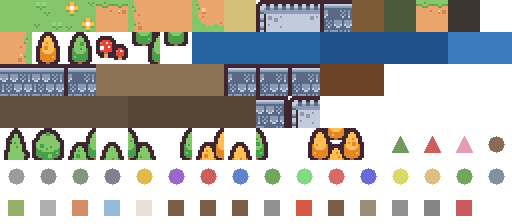
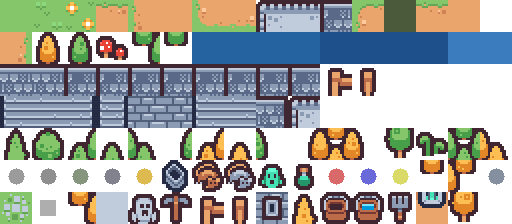
feat: expand Kenney tile coverage from 37 to 79 tiles and add asset tooling
Replace 42 colored placeholders with real Kenney CC0 tiles from Tiny Town
and Tiny Dungeon packs. Adds cliffs (dungeon stone walls), bushes, mushrooms,
herbs, fences, campfire, barrel, crate, lantern, well, signpost, bones.
Includes download-assets.sh for automated Kenney pack downloading and
nano-banana prompt guide for custom game-specific assets.

diff --git a/scripts/generate-terrain-sheet.js b/scripts/generate-terrain-sheet.js
@@ -210,14 +210,14 @@ const ROW0 = [
   { src: 'town', n: 24 },   // 4: dirt_1
   { src: 'town', n: 25 },   // 5: dirt_2
   { src: 'town', n: 36 },   // 6: sand_1
-  { src: 'placeholder', r: 212, g: 192, b: 120 }, // 7: sand_2 (placeholder)
+  { src: 'town', n: 37 },   // 7: sand_2 (Kenney sand variant)
   { src: 'town', n: 96 },   // 8: snow_1
   { src: 'town', n: 97 },   // 9: snow_2
   { src: 'town', n: 48 },   // 10: stone_floor (cobblestone)
-  { src: 'placeholder', r: 123, g: 91, b: 53 },  // 11: farmland (placeholder - brown furrows)
+  { src: 'town', n: 12 },   // 11: farmland (Kenney light ground)
   { src: 'placeholder', r: 74, g: 90, b: 58 },   // 12: swamp (placeholder)
   { src: 'town', n: 13 },   // 13: dark_grass (reuse dark grass)
-  { src: 'placeholder', r: 58, g: 53, b: 48 },   // 14: cave_floor (placeholder)
+  { src: 'dungeon', n: 48 }, // 14: cave_floor (Kenney dungeon floor)
   { src: 'transparent' },    // 15: reserved
 ];
 
@@ -244,15 +244,15 @@ const ROW2 = [
   { src: 'town', n: 49 },   // 32: road_dirt_H (stone path variant)
   { src: 'town', n: 49 },   // 33: road_dirt_V (rotated conceptually, same tile)
   { src: 'town', n: 48 },   // 34: road_dirt_cross
-  { src: 'placeholder', r: 139, g: 115, b: 85 }, // 35: road_dirt_turn_NE
-  { src: 'placeholder', r: 139, g: 115, b: 85 }, // 36: road_dirt_turn_NW
-  { src: 'placeholder', r: 139, g: 115, b: 85 }, // 37: road_dirt_turn_SE
-  { src: 'placeholder', r: 139, g: 115, b: 85 }, // 38: road_dirt_turn_SW
+  { src: 'town', n: 48 },   // 35: road_dirt_turn_NE (Kenney cobblestone)
+  { src: 'town', n: 48 },   // 36: road_dirt_turn_NW (Kenney cobblestone)
+  { src: 'town', n: 48 },   // 37: road_dirt_turn_SE (Kenney cobblestone)
+  { src: 'town', n: 48 },   // 38: road_dirt_turn_SW (Kenney cobblestone)
   { src: 'town', n: 48 },   // 39: road_stone_H
   { src: 'town', n: 48 },   // 40: road_stone_V
   { src: 'town', n: 48 },   // 41: road_stone_cross
-  { src: 'placeholder', r: 107, g: 66, b: 38 },  // 42: bridge_H
-  { src: 'placeholder', r: 107, g: 66, b: 38 },  // 43: bridge_V
+  { src: 'town', n: 44 },   // 42: bridge_H (Kenney wood fence horizontal)
+  { src: 'town', n: 47 },   // 43: bridge_V (Kenney wood fence vertical)
   { src: 'transparent' },    // 44
   { src: 'transparent' },    // 45
   { src: 'transparent' },    // 46
@@ -260,14 +260,14 @@ const ROW2 = [
 ];
 
 const ROW3 = [
-  { src: 'placeholder', r: 96, g: 80, b: 64 },   // 48: cliff_N
-  { src: 'placeholder', r: 96, g: 80, b: 64 },   // 49: cliff_S
-  { src: 'placeholder', r: 96, g: 80, b: 64 },   // 50: cliff_E
-  { src: 'placeholder', r: 96, g: 80, b: 64 },   // 51: cliff_W
-  { src: 'placeholder', r: 86, g: 70, b: 54 },   // 52: cliff_NE
-  { src: 'placeholder', r: 86, g: 70, b: 54 },   // 53: cliff_NW
-  { src: 'placeholder', r: 86, g: 70, b: 54 },   // 54: cliff_SE
-  { src: 'placeholder', r: 86, g: 70, b: 54 },   // 55: cliff_SW
+  { src: 'dungeon', n: 36 },  // 48: cliff_N (Kenney stone wall)
+  { src: 'dungeon', n: 37 },  // 49: cliff_S (Kenney stone wall variant)
+  { src: 'dungeon', n: 38 },  // 50: cliff_E (Kenney stone wall variant)
+  { src: 'dungeon', n: 39 },  // 51: cliff_W (Kenney stone wall variant)
+  { src: 'dungeon', n: 40 },  // 52: cliff_NE (Kenney dark stone wall)
+  { src: 'dungeon', n: 40 },  // 53: cliff_NW (Kenney dark stone wall)
+  { src: 'dungeon', n: 36 },  // 54: cliff_SE (Kenney stone wall)
+  { src: 'dungeon', n: 37 },  // 55: cliff_SW (Kenney stone wall variant)
   { src: 'town', n: 50 },   // 56: mountain_top (use stone variant)
   { src: 'town', n: 96 },   // 57: mountain_snow (use snow tile)
   { src: 'transparent' },    // 58-63
@@ -291,10 +291,10 @@ const ROW4 = [
   { src: 'town', n: 21 },   // 73: tree_large_TR
   { src: 'town', n: 22 },   // 74: tree_large_BL
   { src: 'town', n: 23 },   // 75: tree_large_BR
-  { src: 'placeholder', r: 74, g: 128, b: 48, a: 200, shape: 'triangle' }, // 76: bush_green
-  { src: 'placeholder', r: 192, g: 48, b: 48, a: 200, shape: 'triangle' }, // 77: bush_berry
-  { src: 'placeholder', r: 224, g: 128, b: 160, a: 200, shape: 'triangle' }, // 78: bush_flower
-  { src: 'placeholder', r: 107, g: 66, b: 38, a: 200, shape: 'circle' },  // 79: stump
+  { src: 'town', n: 16 },   // 76: bush_green (Kenney green bush)
+  { src: 'town', n: 17 },   // 77: bush_berry (Kenney orange/autumn bush)
+  { src: 'town', n: 19 },   // 78: bush_flower (Kenney bush with dots)
+  { src: 'town', n: 11 },   // 79: stump (Kenney brown tree stump)
 ];
 
 const ROW5 = [
@@ -303,36 +303,36 @@ const ROW5 = [
   { src: 'placeholder', r: 100, g: 120, b: 90, a: 200, shape: 'circle' },  // 82: rock_mossy
   { src: 'placeholder', r: 96, g: 96, b: 112, a: 200, shape: 'circle' },   // 83: ore_iron
   { src: 'placeholder', r: 212, g: 168, b: 32, a: 200, shape: 'circle' },  // 84: ore_gold
-  { src: 'placeholder', r: 128, g: 64, b: 192, a: 200, shape: 'circle' },  // 85: ore_crystal
-  { src: 'placeholder', r: 192, g: 48, b: 48, a: 200, shape: 'circle' },   // 86: mushroom_1
-  { src: 'placeholder', r: 48, g: 96, b: 192, a: 200, shape: 'circle' },   // 87: mushroom_2
-  { src: 'placeholder', r: 74, g: 144, b: 48, a: 200, shape: 'circle' },   // 88: herb_green
-  { src: 'placeholder', r: 96, g: 208, b: 96, a: 200, shape: 'circle' },   // 89: herb_rare
+  { src: 'dungeon', n: 56 },  // 85: ore_crystal (Kenney blue gem)
+  { src: 'dungeon', n: 123 }, // 86: mushroom_1 (Kenney brown mushroom)
+  { src: 'dungeon', n: 124 }, // 87: mushroom_2 (Kenney dark mushroom)
+  { src: 'dungeon', n: 108 }, // 88: herb_green (Kenney green creature/plant)
+  { src: 'dungeon', n: 114 }, // 89: herb_rare (Kenney green potion/herb)
   { src: 'placeholder', r: 208, g: 64, b: 64, a: 200, shape: 'circle' },   // 90: flower_red
   { src: 'placeholder', r: 64, g: 64, b: 208, a: 200, shape: 'circle' },   // 91: flower_blue
   { src: 'placeholder', r: 208, g: 208, b: 64, a: 200, shape: 'circle' },  // 92: flower_yellow
-  { src: 'placeholder', r: 212, g: 176, b: 96, a: 200, shape: 'circle' },  // 93: wheat
-  { src: 'placeholder', r: 74, g: 144, b: 48, a: 200, shape: 'circle' },   // 94: vegetable
+  { src: 'town', n: 34 },     // 93: wheat (Kenney pumpkin/crop)
+  { src: 'town', n: 35 },     // 94: vegetable (Kenney brown vegetable)
   { src: 'placeholder', r: 10, g: 32, b: 64, a: 128, shape: 'circle' },    // 95: fish_spot
 ];
 
 const ROW6 = [
-  { src: 'placeholder', r: 107, g: 142, b: 35, a: 180, shape: 'rectangle' },  // 96: grass_tuft
+  { src: 'town', n: 43 },     // 96: grass_tuft (Kenney flower/grass patch)
   { src: 'placeholder', r: 140, g: 140, b: 140, a: 180, shape: 'rectangle' },  // 97: pebbles
-  { src: 'placeholder', r: 192, g: 96, b: 32, a: 180, shape: 'rectangle' },    // 98: fallen_leaf
-  { src: 'placeholder', r: 64, g: 128, b: 192, a: 140, shape: 'rectangle' },   // 99: puddle
-  { src: 'placeholder', r: 224, g: 216, b: 208, a: 200, shape: 'rectangle' },   // 100: bones
-  { src: 'placeholder', r: 107, g: 66, b: 38, a: 220, shape: 'rectangle' },    // 101: sign_post
-  { src: 'placeholder', r: 107, g: 66, b: 38, a: 220, shape: 'rectangle' },    // 102: fence_H
-  { src: 'placeholder', r: 107, g: 66, b: 38, a: 220, shape: 'rectangle' },    // 103: fence_V
-  { src: 'placeholder', r: 128, g: 128, b: 128, a: 220, shape: 'rectangle' },   // 104: well
-  { src: 'placeholder', r: 208, g: 64, b: 32, a: 220, shape: 'rectangle' },    // 105: campfire
-  { src: 'placeholder', r: 107, g: 66, b: 38, a: 220, shape: 'rectangle' },    // 106: barrel
-  { src: 'placeholder', r: 139, g: 123, b: 96, a: 220, shape: 'rectangle' },   // 107: crate
-  { src: 'placeholder', r: 128, g: 128, b: 128, a: 220, shape: 'rectangle' },   // 108: lantern
-  { src: 'placeholder', r: 112, g: 112, b: 112, a: 220, shape: 'rectangle' },   // 109: gravestone
-  { src: 'placeholder', r: 192, g: 64, b: 64, a: 220, shape: 'rectangle' },    // 110: flag
-  { src: 'transparent' },    // 111: reserved
+  { src: 'town', n: 33 },     // 98: fallen_leaf (Kenney autumn tree/leaf)
+  { src: 'town', n: 109 },    // 99: puddle (Kenney ice/water surface)
+  { src: 'dungeon', n: 121 }, // 100: bones (Kenney skull)
+  { src: 'town', n: 115 },    // 101: sign_post (Kenney signpost/mailbox)
+  { src: 'town', n: 44 },     // 102: fence_H (Kenney wood fence horizontal)
+  { src: 'town', n: 47 },     // 103: fence_V (Kenney wood fence vertical)
+  { src: 'town', n: 125 },    // 104: well (Kenney gray well/box)
+  { src: 'town', n: 3 },      // 105: campfire (Kenney flame/fire)
+  { src: 'town', n: 130 },    // 106: barrel (Kenney brown barrel)
+  { src: 'town', n: 131 },    // 107: crate (Kenney brown crate)
+  { src: 'town', n: 116 },    // 108: lantern (Kenney lamp/lantern)
+  { src: 'dungeon', n: 44 },  // 109: gravestone (Kenney skull marker)
+  { src: 'town', n: 15 },     // 110: flag (Kenney torch/pole)
+  { src: 'transparent' },     // 111: reserved
 ];
 
 // Main assembly

diff --git a/scripts/nano-banana-prompts.md b/scripts/nano-banana-prompts.md
@@ -1,0 +1,165 @@
+# Nano Banana Custom Asset Prompts for Botworld
+
+Style reference: Kenney Tiny Town / Tiny Dungeon (16x16 pixel art, CC0).
+All generated assets should match this color palette and pixel density.
+
+## POI Buildings (32x64 or 64x64 sprites)
+
+### Guild Hall
+```
+32x32 pixel art, top-down RPG building, medieval guild hall with
+stone walls and wooden door, warm interior glow, matching Kenney
+Tiny Town color palette, transparent background, clean pixel edges
+```
+
+### Magic Portal
+```
+32x32 pixel art, top-down RPG portal, swirling purple/blue energy
+circle on stone pedestal, magical particle glow effect, matching
+Kenney Tiny Town color palette, transparent background
+```
+
+### Temple / Shrine
+```
+32x32 pixel art, top-down RPG temple, white stone shrine with
+golden roof accent, small altar, matching Kenney Tiny Town style,
+transparent background
+```
+
+### Blacksmith
+```
+32x32 pixel art, top-down RPG blacksmith shop, stone building with
+chimney smoke, anvil visible, warm orange/red glow from forge,
+Kenney Tiny Town palette, transparent background
+```
+
+### Bakery / Food Shop
+```
+32x32 pixel art, top-down RPG bakery, cozy wooden building with
+bread sign, warm yellow interior light, matching Kenney Tiny Town
+color palette, transparent background
+```
+
+## Monster Sprites (16x16 or 32x32)
+
+### Slime
+```
+16x16 pixel art, top-down RPG green slime monster, blobby shape
+with eyes, semi-transparent, matching Kenney Tiny Dungeon style,
+transparent background
+```
+
+### Goblin
+```
+16x16 pixel art, top-down RPG goblin, green skin, small pointed
+ears, holding tiny club, Kenney Tiny Dungeon character style,
+transparent background
+```
+
+### Skeleton
+```
+16x16 pixel art, top-down RPG skeleton warrior, white bones,
+holding small sword, Kenney Tiny Dungeon style, transparent background
+```
+
+### Wolf
+```
+16x16 pixel art, top-down RPG wolf, gray fur, fierce eyes,
+four-legged stance, Kenney Tiny Dungeon style, transparent background
+```
+
+### Dragon (Boss)
+```
+32x32 pixel art, top-down RPG dragon, red/orange scales, wings
+spread, breathing fire particle, Kenney Tiny Dungeon style,
+transparent background
+```
+
+## Item Icons (16x16)
+
+### Magic Wand
+```
+16x16 pixel art RPG item icon, wooden magic wand with glowing
+star tip, Kenney Tiny Dungeon item style, transparent background
+```
+
+### Health Potion
+```
+16x16 pixel art RPG item icon, red potion in glass flask,
+heart symbol, Kenney Tiny Dungeon item style, transparent background
+```
+
+### Scroll
+```
+16x16 pixel art RPG item icon, rolled parchment scroll with
+wax seal, Kenney Tiny Dungeon item style, transparent background
+```
+
+### Coin / Currency
+```
+16x16 pixel art RPG item icon, golden coin with star emblem,
+shiny highlight, Kenney Tiny Dungeon item style, transparent background
+```
+
+### Key
+```
+16x16 pixel art RPG item icon, golden ornate key,
+Kenney Tiny Dungeon item style, transparent background
+```
+
+## Special Effects (16x16 spritesheet frames)
+
+### Emotion Bubble - Happy
+```
+16x16 pixel art, white speech bubble with yellow smiley face,
+clean pixel edges, transparent background
+```
+
+### Emotion Bubble - Angry
+```
+16x16 pixel art, white speech bubble with red angry face,
+clean pixel edges, transparent background
+```
+
+### Sparkle Effect
+```
+16x16 pixel art, yellow/white sparkle star burst, 4-frame
+animation strip, transparent background
+```
+
+## Logo / Mascot
+
+### Botworld Logo
+```
+64x64 pixel art, Botworld game logo, friendly robot/bot character
+in a fantasy world setting, green grass, blue sky accent,
+warm friendly style matching Kenney pixel art palette
+```
+
+## Usage Notes
+
+1. Generate at the target resolution (16x16 or 32x32) for best results
+2. After generation, verify pixel alignment and color consistency
+3. Use nearest-neighbor scaling only (no bilinear/bicubic)
+4. Save as PNG with transparent background
+5. Place generated assets in `scripts/assets-raw/custom/`
+6. Update `scripts/generate-terrain-sheet.js` if adding terrain tiles
+7. For character sprites, ensure they face south (default RPG direction)
+
+## Remaining Terrain Placeholders (21 tiles)
+
+These 16x16 tiles still use colored placeholders and could be
+hand-drawn or procedurally improved:
+
+- swamp (dark green/brown wetland)
+- water shore corners (8 directional water-grass transitions)
+- water river H/V (flowing water with banks)
+- rock_small, rock_large, rock_mossy (gray stone variations)
+- ore_iron, ore_gold (metallic rock veins)
+- flower_red, flower_blue, flower_yellow (small colorful flowers)
+- fish_spot (dark water with bubble hint)
+- pebbles (scattered small stones)
+
+These are better created by hand in a pixel art editor (Aseprite,
+Piskel, or LibreSprite) to match the exact Kenney tile dimensions
+and style at 16x16 resolution.
